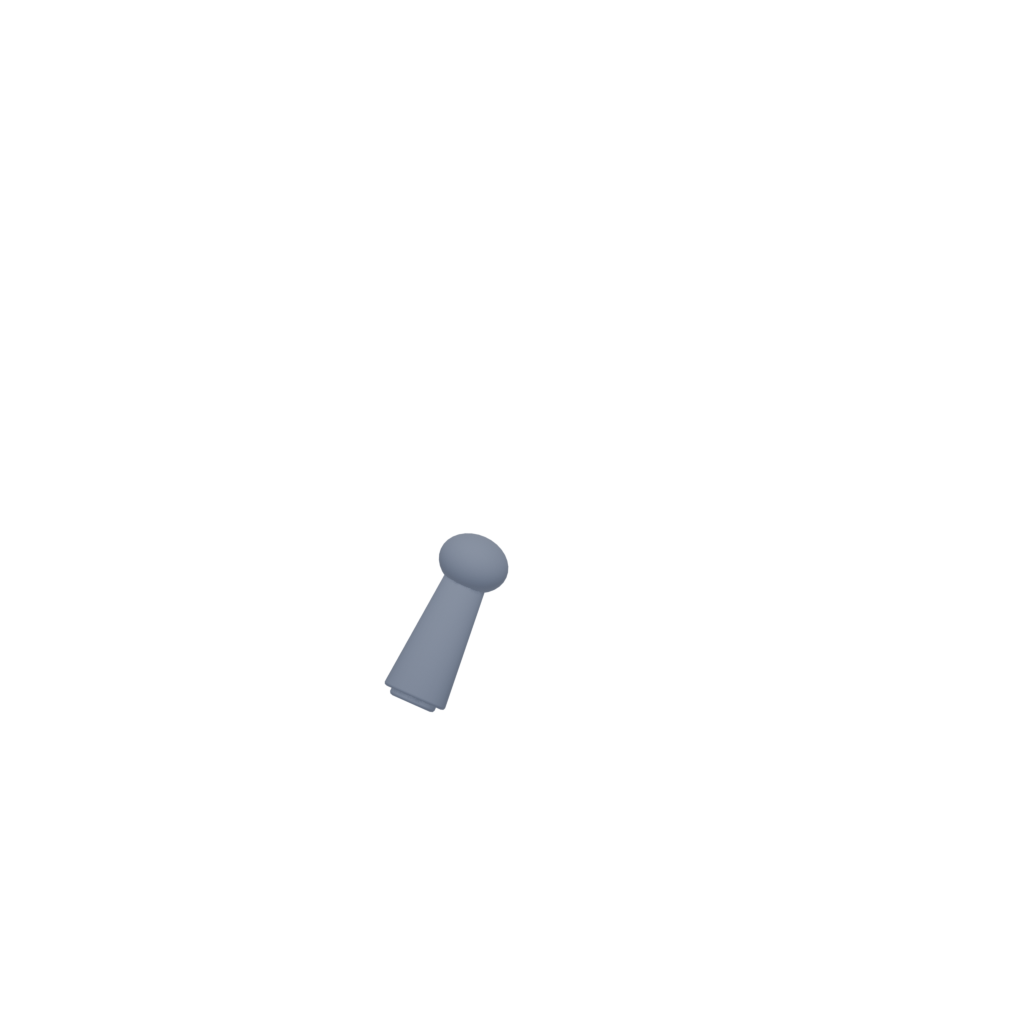
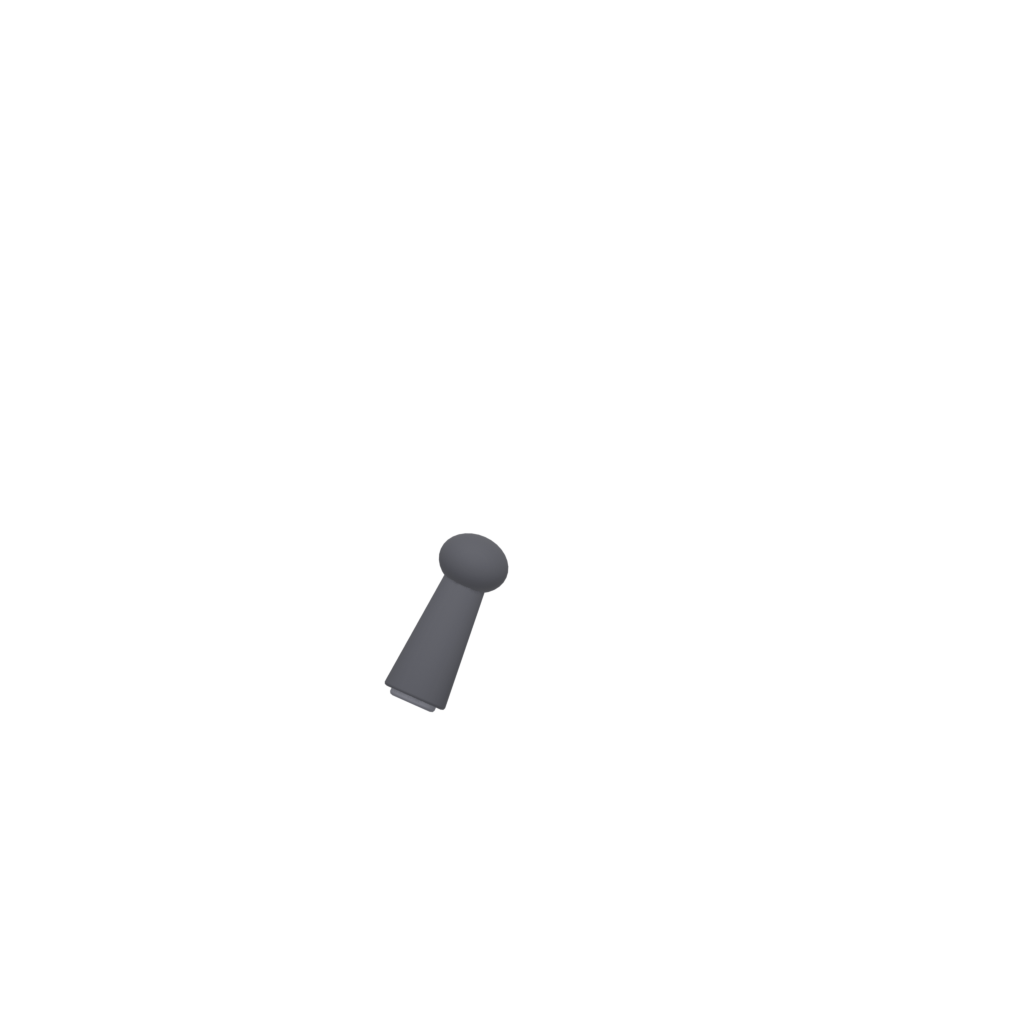
Ninja-Charakter nach Spieler-Referenz: Blender-Basis als Ninja, fal-Übermalung (0.7), Kopf-Anker aus Blender-Proportionen gefixt, Puppe aktiv

Changed region(s): [[0.375, 0.5, 0.5, 0.6875]]

diff --git a/src/puppe.js b/src/puppe.js
@@ -92,9 +92,8 @@ function baueTeile() {
 
 export const PUPPEN = { juro: {} }; // Kompatibilität zur Aufruf-Signatur
 
-// Solange die Puppe nicht perfekt ist, bleibt sie abgeschaltet —
-// das Spiel zeigt die Edel-Silhouette (Workflow: perfektionieren, dann aktivieren)
-const PUPPE_AKTIV = false;
+// Puppe aktiv: der Ninja aus dem Referenzblatt des Spielers
+const PUPPE_AKTIV = true;
 
 export function puppeBereit(name) {
   return PUPPE_AKTIV && name === 'juro' && !!baueTeile();
@@ -114,8 +113,15 @@ export function zeichnePuppe(ctx, x, fussY, blick, pose, _puppe, skalierung = 1)
   const huefte = [0, fussY - s.hueftHoehe * sk * pose.hueftFaktor];
   const schulter = ende(huefte, pose.rumpf, s.rumpfLaenge, true);
   const kopfMitte = ende(schulter, pose.rumpf + pose.kopf, s.halsLaenge + s.kopfRadius, true);
-  const hals = [schulter[0] + (kopfMitte[0] - schulter[0]) * 0.25, schulter[1] + (kopfMitte[1] - schulter[1]) * 0.25];
-  const scheitel = [kopfMitte[0] + (kopfMitte[0] - schulter[0]) * 0.9, kopfMitte[1] + (kopfMitte[1] - schulter[1]) * 0.9];
+  // Kopf-Anker exakt aus den Blender-Proportionen abgeleitet:
+  // Torso = 1.4 Blender-Einheiten ↔ rumpfLaenge Pixel; Hals sitzt 0.12 u über
+  // der Schulter, der Scheitel 1.33 u über dem Hals — so sitzt der Kopf passgenau.
+  const einheit = (s.rumpfLaenge / 1.4) * sk;
+  const dLen = Math.hypot(kopfMitte[0] - schulter[0], kopfMitte[1] - schulter[1]) || 1;
+  const rx = (kopfMitte[0] - schulter[0]) / dLen;
+  const ry = (kopfMitte[1] - schulter[1]) / dLen;
+  const hals = [schulter[0] + rx * 0.12 * einheit, schulter[1] + ry * 0.12 * einheit];
+  const scheitel = [hals[0] + rx * 1.33 * einheit, hals[1] + ry * 1.33 * einheit];
   const elleV = ende(schulter, pose.vSchulter, s.oberarm);
   const handV = ende(elleV, pose.vSchulter + pose.vEllbogen, s.unterarm);
   const elleH = ende(schulter, pose.hSchulter, s.oberarm);

diff --git a/tools/blender-juro.py b/tools/blender-juro.py
@@ -60,14 +60,20 @@ def material(name, farbe, rauheit=0.85):
     p.inputs['Roughness'].default_value = rauheit
     return m
 
-HAUT = material('haut', (0.85, 0.55, 0.36))
-HAAR = material('haar', (0.055, 0.07, 0.13))
-JACKE = material('jacke', (0.09, 0.13, 0.26))
-MANTEL = material('mantel', (0.06, 0.09, 0.19))
-HOSE = material('hose', (0.10, 0.12, 0.18))
-ROT = material('rot', (0.55, 0.10, 0.10))
-STIEFEL = material('stiefel', (0.23, 0.14, 0.09))
-BRAUN = material('leder', (0.30, 0.19, 0.11))
+def leuchte(name, farbe, kraft):
+    m = bpy.data.materials.new(name)
+    m.use_nodes = True
+    pr = m.node_tree.nodes['Principled BSDF']
+    pr.inputs['Base Color'].default_value = (*farbe, 1)
+    pr.inputs['Emission Color'].default_value = (*farbe, 1)
+    pr.inputs['Emission Strength'].default_value = kraft
+    return m
+
+SCHWARZ = material('schwarz', (0.045, 0.045, 0.055))
+KOHLE = material('kohle', (0.10, 0.10, 0.12))
+GRAU = material('grau', (0.18, 0.18, 0.20))
+WEINROT = material('weinrot', (0.30, 0.06, 0.10))
+ROTGLUT = leuchte('rotglut', (0.9, 0.08, 0.08), 3.5)
 
 def setze(obj, mat):
     obj.data.materials.clear()
@@ -88,6 +94,13 @@ def zylinder(x, z, r, laenge, mat, sy=0.8):
     bpy.ops.mesh.primitive_cylinder_add(radius=r, depth=laenge, location=(x, 0, z), vertices=24)
     o = bpy.context.object
     o.scale[1] = sy
+    setze(o, mat)
+    return o
+
+def quader(x, z, bx, by, bz, mat, y=0):
+    bpy.ops.mesh.primitive_cube_add(size=1, location=(x, y, z))
+    o = bpy.context.object
+    o.scale = (bx, by, bz)
     setze(o, mat)
     return o
 
@@ -121,56 +134,56 @@ def sammle(bauen):
 
 def baue_kopf():
     def b():
-        kugel(0, 0.63, 0.5, HAUT, sx=0.95, sz=1.12)
-        kugel(-0.16, 0.33, 0.3, HAUT, sx=1.05, sz=0.8)
-        kugel(0.3, 0.55, 0.09, HAUT, sx=0.5, sz=0.9)
-        kugel(0.12, 0.97, 0.52, HAAR, sx=0.95, sz=0.72)
-        for dx, dz, neig in [(-0.34, 1.27, -0.55), (-0.1, 1.45, -0.2), (0.18, 1.47, 0.25), (0.44, 1.33, 0.65), (0.6, 1.05, 1.0)]:
-            kegel(dx, dz, 0.15, 0.5, HAAR, neigung=neig)
-        zylinder(0, 0.71, 0.52, 0.13, ROT)
-        kugel(0.66, 0.57, 0.09, ROT, sx=2.4, sz=0.4)
-        kugel(0.72, 0.39, 0.07, ROT, sx=2.0, sz=0.35)
+        kugel(0, 0.6, 0.5, SCHWARZ, sx=0.95, sz=1.05)        # Kapuze
+        kugel(0.32, 0.85, 0.3, SCHWARZ, sx=1.3, sz=0.8)      # Kapuzen-Falte hinten
+        kugel(-0.18, 0.4, 0.33, KOHLE, sx=0.95, sz=0.72)     # Gesichtsmaske unten
+        quader(-0.4, 0.62, 0.12, 0.28, 0.045, ROTGLUT)       # glühender Augenschlitz
     return sammle(b)
 
 def baue_torso():
     def b():
-        kugel(0, -0.25, 0.56, JACKE, sy=0.55, sz=0.85)
-        stumpf(0, -0.7, 0.44, -1.32, 0.34, JACKE, sy=0.55)
-        zylinder(0, -1.36, 0.4, 0.16, ROT, sy=0.6)
-        stumpf(0, -1.4, 0.42, -2.2, 0.58, MANTEL, sy=0.5)
-        kugel(-0.05, -2.22, 0.56, MANTEL, sy=0.48, sz=0.22)
-        kugel(0, 0.12, 0.36, ROT, sx=1.25, sy=0.8, sz=0.5)
-        kugel(-0.3, 0.2, 0.16, ROT, sx=0.8, sz=1.4)
+        kugel(0, -0.25, 0.56, SCHWARZ, sy=0.55, sz=0.85)      # Brust
+        quader(-0.38, -0.45, 0.14, 0.28, 0.32, KOHLE)         # Brustplatte vorn
+        stumpf(0, -0.7, 0.44, -1.32, 0.34, SCHWARZ, sy=0.55)  # Taille
+        zylinder(0, -1.36, 0.4, 0.16, GRAU, sy=0.6)           # Gürtel
+        quader(-0.3, -1.52, 0.14, 0.2, 0.12, KOHLE)           # Tasche vorn
+        quader(0.3, -1.52, 0.14, 0.2, 0.12, KOHLE)            # Tasche hinten
+        stumpf(0, -1.44, 0.4, -2.1, 0.5, KOHLE, sy=0.5)       # Rock-Schöße
+        kugel(0, 0.08, 0.38, WEINROT, sx=1.3, sy=0.85, sz=0.5)  # Schal
+        kugel(0.55, -0.35, 0.12, WEINROT, sx=2.4, sz=0.5)     # Schal-Ende weht
+        kugel(0.62, -0.85, 0.1, WEINROT, sx=2.0, sz=0.45)     # zweites Ende
     return sammle(b)
 
 def baue_oberarm():
     def b():
-        kugel(0, -0.08, 0.3, JACKE, sz=0.85)
-        stumpf(0, -0.15, 0.24, -1.05, 0.15, JACKE)
-        zylinder(0, -1.02, 0.18, 0.14, MANTEL)
+        kugel(0, -0.08, 0.3, KOHLE, sz=0.8)                   # Schulterplatte
+        quader(-0.2, -0.12, 0.08, 0.2, 0.1, ROTGLUT)          # rote Markierung
+        stumpf(0, -0.18, 0.23, -1.05, 0.15, SCHWARZ)
+        zylinder(0, -1.02, 0.18, 0.14, KOHLE)
     return sammle(b)
 
 def baue_unterarm():
     def b():
-        stumpf(0, -0.02, 0.17, -0.78, 0.12, JACKE)
-        stumpf(0, -0.42, 0.2, -0.8, 0.16, BRAUN)
-        kugel(0, -0.98, 0.18, HAUT, sz=1.1)
-        kugel(-0.14, -0.92, 0.08, HAUT)
+        stumpf(0, -0.02, 0.17, -0.78, 0.12, SCHWARZ)
+        stumpf(0, -0.38, 0.19, -0.78, 0.15, KOHLE)            # Armschiene
+        kugel(0, -0.97, 0.17, KOHLE, sz=1.1)                  # Handschuh-Faust
+        kugel(-0.13, -0.9, 0.075, KOHLE)
     return sammle(b)
 
 def baue_schenkel():
     def b():
-        kugel(0, -0.05, 0.28, HOSE, sz=0.8)
-        stumpf(0, -0.1, 0.26, -1.2, 0.16, HOSE)
-        zylinder(0, -1.18, 0.19, 0.14, HOSE)
+        kugel(0, -0.05, 0.28, SCHWARZ, sz=0.8)
+        stumpf(0, -0.1, 0.26, -1.2, 0.16, SCHWARZ)
+        zylinder(0, -1.18, 0.19, 0.14, KOHLE)
     return sammle(b)
 
 def baue_schienbein():
     def b():
-        stumpf(0, -0.02, 0.15, -0.68, 0.12, HOSE)
-        stumpf(0, -0.62, 0.2, -1.2, 0.17, STIEFEL)
-        kugel(-0.18, -1.26, 0.17, STIEFEL, sx=1.5, sz=0.55)
-        kugel(0.1, -1.28, 0.12, STIEFEL, sx=0.9, sz=0.6)
+        stumpf(0, -0.02, 0.15, -0.5, 0.13, SCHWARZ)
+        for i, zz in enumerate([-0.5, -0.68, -0.86, -1.04]):   # Bandagen-Wicklung
+            zylinder(0, zz, 0.16 - i * 0.008, 0.15, GRAU)
+        kugel(-0.16, -1.26, 0.17, SCHWARZ, sx=1.5, sz=0.55)    # Tabi-Spitze
+        kugel(0.1, -1.27, 0.12, SCHWARZ, sx=0.9, sz=0.6)       # Ferse
     return sammle(b)
 
 # ---------- Figur montieren (Spreiz-Pose; vorwärts = Welt -X = Bild rechts) ----------

diff --git a/assets/prompts.md b/assets/prompts.md
@@ -51,3 +51,5 @@
 | assets/teile/juro-puppe-mantel.png | fal-ai/flux/dev/image-to-image (canny 0.78) | 137829658 | highly detailed semi-realistic dark fantasy game character render, full body side profile view facing right, keeping exactly this pose and body layout, a grim wandering swordsman wearing a long flowing dark coat over layered leather armor, scarf, gloves, heavy boots, dramatic cinematic lighting with strong rim light, rich material detail, painted AAA concept art quality, plain light background, no weapon, no text |
 | assets/teile/juro-gemalt.png | fal-ai/flux/dev/image-to-image (canny 0.5) | 1105110956 | repaint of isolated 2d game character body parts laid out on a white sheet, keep every part exactly in its position and size, painterly dark fantasy style with rich fabric folds and soft shading: a spiky dark blue haired head with red headband in side profile, a navy blue coat torso with red scarf and belt, tapered navy sleeve arm parts with leather bracer and fist, navy pant leg parts with brown leather boots, clean edges, plain white background, no text, no extra parts |
 | assets/teile/juro/gemalt.png | fal-ai/flux/dev/image-to-image (canny 0.55) | 1333434654 | painterly dark fantasy game character, exactly this pose and silhouette, young male martial artist in strict side view facing right, spiky dark blue-black hair, red headband with flowing tails behind the head, red scarf, fitted dark navy blue coat with red belt and flared hem, navy pants, leather bracer on the forearm, clenched fist, brown leather boots, rich fabric folds and painted shading, soft warm light, plain white background, no weapon, no text |
+| assets/teile/juro/gemalt.png | fal-ai/flux/dev/image-to-image (canny 0.55) | 1686381091 | painterly dark fantasy game character art, exactly this pose and silhouette, black armored ninja in strict side view facing right, dark hood over the head, black face mask with one glowing red eye slit, dark burgundy red scarf with two flowing tails behind him, matte black tactical armor with subtle glowing red markings on the angular shoulder plate, black chest plate, utility belt with pouches, black pants, grey bandage wraps around the shins, black tabi boots, black gloved fist, leather bracer, moody painted shading, plain white background, no weapon, no text |
+| assets/teile/juro/gemalt.png | fal-ai/flux/dev/image-to-image (canny 0.7) | 1972407523 | high quality detailed 2d game character art, keep exactly this pose and body layout, black armored ninja assassin in strict side view facing right, sleek dark hood, black face mask, one glowing red eye, dark burgundy scarf with two long flowing tails, matte black segmented tactical armor with glowing red accents on the angular shoulder plate, black chest armor, utility belt with pouches, black fitted pants, grey bandage wraps on the shins, black tabi boots, gloved fist, rich painted shading and material detail like a AAA concept sheet, plain white background, no weapon, no text |
